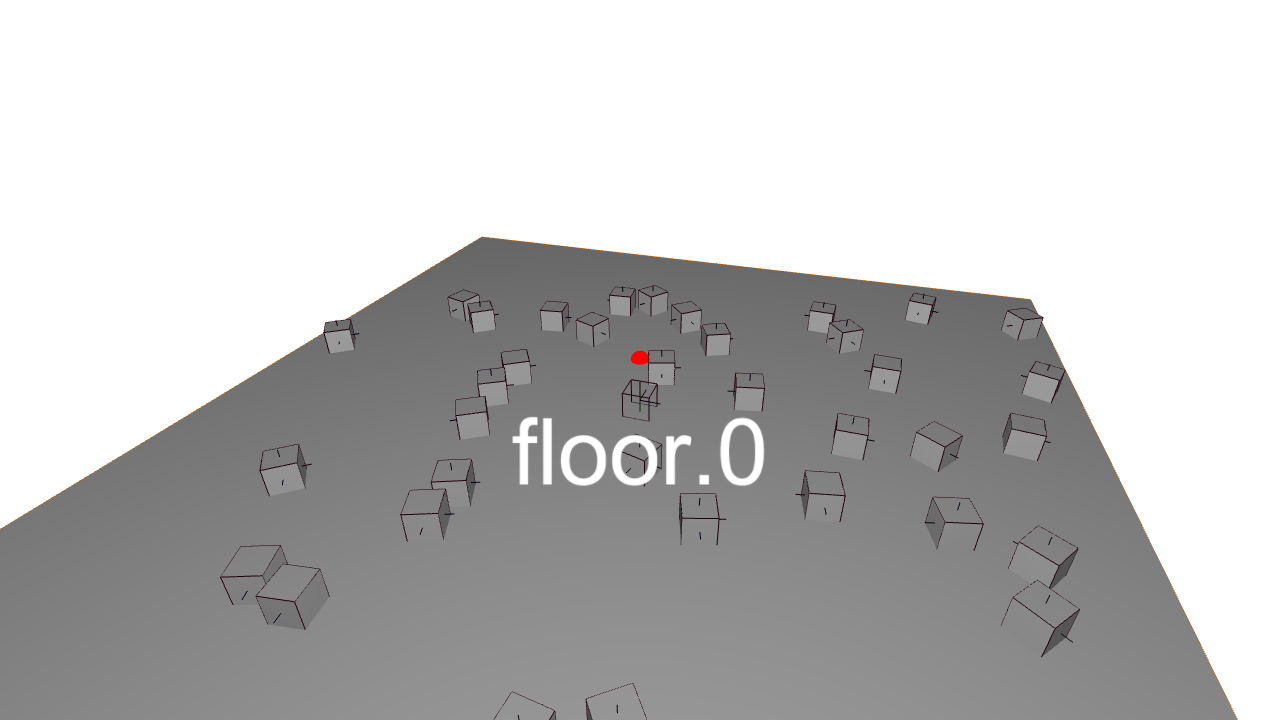
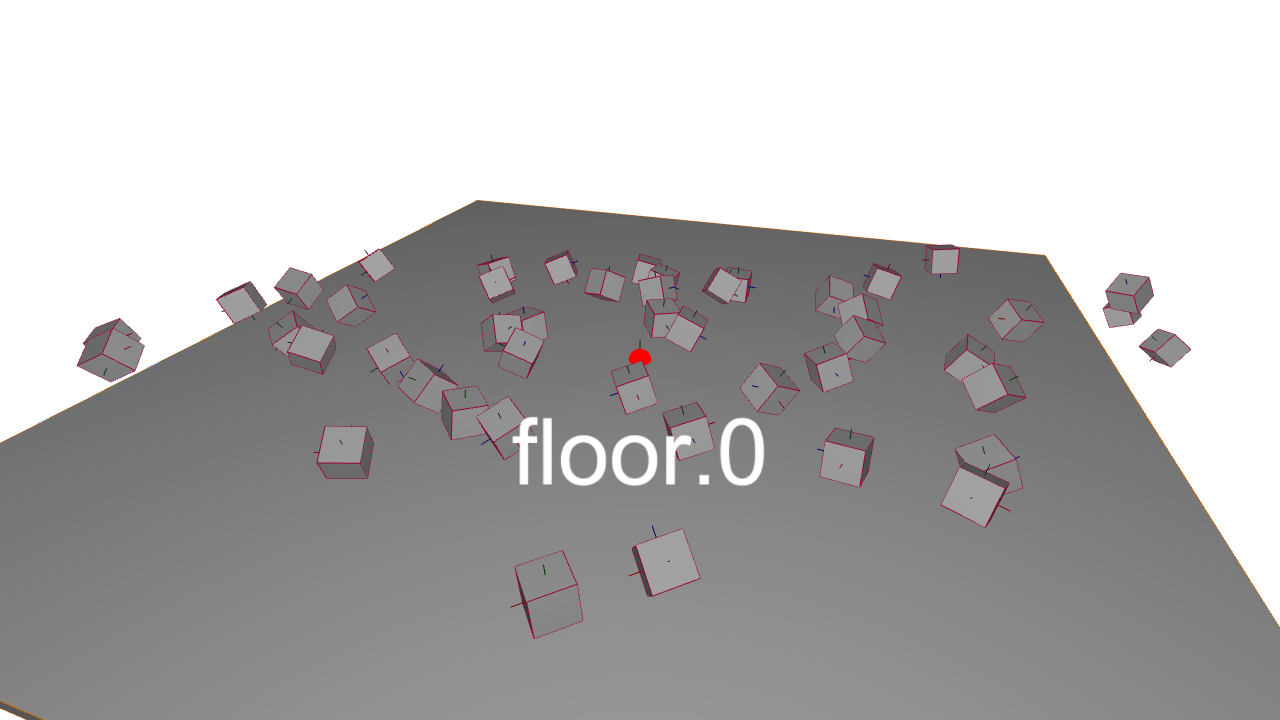
rapier

diff --git a/src/ops/extensions/Ops.Extension.Rapier3d/Ops.Extension.Rapier3d.CharacterController/Ops.Extension.Rapier3d.CharacterController.js b/src/ops/extensions/Ops.Extension.Rapier3d/Ops.Extension.Rapier3d.CharacterController/Ops.Extension.Rapier3d.CharacterController.js
@@ -5,14 +5,14 @@ const
     reset = op.inTriggerButton("Reset"),
     inHeight = op.inFloat("Height", 1),
     inWidth = op.inFloat("Width", 0.2),
-
     inVecX = op.inFloat("Vector X"),
-    inVecY = op.inFloat("Vector Y"),
+    inVecY = op.inFloat("Vector Y", -0.05),
     inVecZ = op.inFloat("Vector Z"),
     next = op.outTrigger("Next"),
     outX = op.outNumber("X"),
     outY = op.outNumber("Y"),
-    outZ = op.outNumber("Z");
+    outZ = op.outNumber("Z"),
+    outCollider = op.outArray("Collider");
 
 let characterController = null;
 let world = null;
@@ -21,6 +21,8 @@ let collider = null;
 let needsSetup = true;
 let pos = null;
 let movement = null;
+
+op.onDelete = remove;
 
 inWidth.onChange =
     inHeight.onChange =
@@ -45,13 +47,15 @@ exec.onTriggered = () =>
 
     if (needsSetup)
     {
-        let colliderDesc = RAPIER.ColliderDesc.capsule(inHeight.get(), inWidth.get());
+        const colliderDesc = RAPIER.ColliderDesc.capsule(inHeight.get(), inWidth.get());
         // const rigidBodyDesc = RAPIER.RigidBodyDesc.kinematicVelocityBased().setTranslation(-1.5,1.32,0);
         const rigidBodyDesc = RAPIER.RigidBodyDesc.kinematicPositionBased().setTranslation(-1.5, 2.32, 0);
         rigidBody = world.createRigidBody(rigidBodyDesc);
 
+        colliderDesc.setActiveCollisionTypes(RAPIER.ActiveCollisionTypes.ALL);
         colliderDesc.setFriction(0.1);
         collider = world.createCollider(colliderDesc, rigidBody);
+        outCollider.setRef([collider]);
 
         characterController = world.createCharacterController(0.01);
         characterController.setCharacterMass(1);
@@ -87,8 +91,8 @@ exec.onTriggered = () =>
     movement.y += inVecY.get();
     movement.z += inVecZ.get();
 
-    characterController.computeColliderMovement(collider, movement);
-
+    characterController.computeColliderMovement(collider, movement, RAPIER.QueryFilterFlags.EXCLUDE_SENSORS);
+    // RAPIER.QueryFilterFlags.EXCLUDE_SENSORS
     // for (let i = 0; i < characterController.numComputedCollisions(); i++) {
     // let collision = characterController.computedCollision(i);
     // Do something with that collision information.
@@ -122,11 +126,10 @@ exec.onTriggered = () =>
 
 function remove()
 {
-    if (world && rigidBody)world.removeRigidBody(rigidBody);
-    if (world && characterController)world.removeCharacterController(characterController);
+    if (world && rigidBody) world.removeRigidBody(rigidBody);
+    if (world && characterController) world.removeCharacterController(characterController);
+    if (world && collider)world.removeCollider(collider);
     characterController = null;
 
     rigidBody = null;
 }
-
-//

diff --git a/src/ops/extensions/Ops.Extension.Rapier3d/Ops.Extension.Rapier3d.CheckCollisionPairsEvents/Ops.Extension.Rapier3d.CheckCollisionPairsEvents.js b/src/ops/extensions/Ops.Extension.Rapier3d/Ops.Extension.Rapier3d.CheckCollisionPairsEvents/Ops.Extension.Rapier3d.CheckCollisionPairsEvents.js
@@ -12,63 +12,41 @@ exec.onTriggered = () =>
 {
     const arr1 = inColl1.get();
     const arr2 = inColl2.get();
-    const world = op.patch.frameStore.rapierWorld;
+    const world = op.patch.frameStore.rapier.world;
     const r1 = [];
     const r2 = [];
 
-    if (!arr1 || !arr2 || !world)
-        return outHasColl.set(false);
+    if (!arr1 || !arr2 || !world) return outHasColl.set(false);
 
-    outHasColl.set(false);
-    const events = op.patch.frameStore.rapierCollisionEvents;
+    let hasColl = false;
+    const events = op.patch.frameStore.rapier.collisionEvents;
 
-    for (let i = 0; i < arr1.length; i++)
-        r1[i] = 0;
-
-    for (let j = 0; j < arr2.length; j++)
-        r2[j] = 0;
+    for (let i = 0; i < arr1.length; i++) r1[i] = 0;
+    for (let j = 0; j < arr2.length; j++) r2[j] = 0;
 
     for (let i = 0; i < arr1.length; i++)
     {
-        // console.log("arr1[i].handle",arr1[i].handle);
         for (let j = 0; j < arr2.length; j++)
         {
             if (arr1[i] != arr2[j])
-
-                for (let e in events)//= 0; e < events.length; e++)
+            {
+                for (let e in events)
                 {
-                    if ((
-                        arr1[i].handle == events[e].handle1 &&
-                    arr2[j].handle == events[e].handle2
-
-                    )
-                || (
-                    arr2[j].handle == events[e].handle1 &&
-                    arr1[i].handle == events[e].handle2)
+                    if (
+                        (arr1[i].handle == events[e].handle1 && arr2[j].handle == events[e].handle2) ||
+                        (arr2[j].handle == events[e].handle1 && arr1[i].handle == events[e].handle2)
                     )
                     {
-                        outHasColl.set(true);
+                        hasColl = true;
                         r1[i] = 1;
                         r2[j] = 1;
                     }
                 }
+            }
         }
     }
 
-    // for (let i = 0; i < arr1.length; i++)
-    // {
-    //     for (let j = 0; j < arr2.length; j++)
-    //     {
-    //         if (arr1[i] == arr2[j]) continue;
-
-    //         world.contactPair(arr1[i], arr2[j], (manifold, flipped) =>
-    //         {
-    //             outHasColl.set(true);
-    //             r1[i] = 1;
-    //             r2[j] = 1;
-    //         });
-    //     }
-    // }
+    outHasColl.set(hasColl);
 
     outColl1.setRef(r1);
     outColl2.setRef(r2);

diff --git a/src/ops/extensions/Ops.Extension.Rapier3d/Ops.Extension.Rapier3d.Body/Ops.Extension.Rapier3d.Body.js b/src/ops/extensions/Ops.Extension.Rapier3d/Ops.Extension.Rapier3d.Body/Ops.Extension.Rapier3d.Body.js
@@ -22,12 +22,14 @@ const
 
     inPositions = op.inArray("Positions"),
     inEvents = op.inBool("Events", true),
+    inActive = op.inBool("Active", true),
     next = op.outTrigger("Next"),
     outSleeping = op.outBoolNum("Sleeping"),
     outPos = op.outArray("Result Positions", [], 3),
     outSize = op.outArray("Result Size", [], 3),
     outRot = op.outArray("Result Rotations", [], 4),
-    outCollider = op.outArray("Collider");
+    outCollider = op.outArray("Collider"),
+    outBodies = op.outArray("Bodies");
 
 let needsSetup, lastWorld, oldShape;
 let rigidBodies = [];
@@ -65,12 +67,23 @@ inTranslX.onChange =
         {
             setPosition = true;
         }
+        else
+        {
+            needsSetup = true;
+        }
     };
+
+inActive.onChange = () =>
+{
+    if (!inActive.get()) removeBodies();
+    needsSetup = true;
+};
 
 exec.onTriggered = () =>
 {
     const world = op.patch.frameStore.rapier.world;
     if (!world) return;
+    if (!inActive.get()) return;
 
     // if (!eventQueue)
     {
@@ -262,6 +275,7 @@ function setup(world)
 
     // console.log("colliders", colliders);
     outCollider.setRef(colliders);
+    outBodies.setRef(rigidBodies);
 
     needsSetup = false;
     updateUi();

diff --git a/src/ops/extensions/Ops.Extension.Rapier3d/Ops.Extension.Rapier3d.World_v2/Ops.Extension.Rapier3d.World_v2.js b/src/ops/extensions/Ops.Extension.Rapier3d/Ops.Extension.Rapier3d.World_v2/Ops.Extension.Rapier3d.World_v2.js
@@ -1,6 +1,7 @@
 const
     exec = op.inTrigger("Execute"),
     inReset = op.inTriggerButton("Reset"),
+    inDebug = op.inBool("Debug", true),
     next = op.outTrigger("Next"),
     outDebugPoints = op.outArray("Debug Splines"),
     outDebugColors = op.outArray("Debug Colors"),
@@ -51,9 +52,13 @@ exec.onTriggered = () =>
     const ray = new RAPIER.Ray(new RAPIER.Vector3(-0.5, 0, 0), new RAPIER.Vector3(1, 0, 0));
     const result = world.castRay(ray);
 
-    const dbg = world.debugRender();
-    outDebugPoints.set(dbg.vertices);
-    outDebugColors.set(dbg.colors);
+    if (inDebug.get() && outDebugPoints.isLinked())
+    {
+        const dbg = world.debugRender();
+        outDebugPoints.set(dbg.vertices);
+        outDebugColors.set(dbg.colors);
+    }
+
     eventQueue.drainCollisionEvents((handle1, handle2, started) =>
     {
         const id = Math.min(handle1, handle2) + "_" + Math.max(handle2, handle1);

diff --git a/src/ops/extensions/Ops.Extension.Rapier3d/Ops.Extension.Rapier3d.Emitter/Ops.Extension.Rapier3d.Emitter.js b/src/ops/extensions/Ops.Extension.Rapier3d/Ops.Extension.Rapier3d.Emitter/Ops.Extension.Rapier3d.Emitter.js
@@ -21,6 +21,7 @@ const
     inLifetime = op.inFloat("Lifetime", 0),
 
     inEmit = op.inTriggerButton("Emit"),
+    inClear = op.inTriggerButton("Remove"),
 
     next = op.outTrigger("Next"),
     outSleeping = op.outBoolNum("Sleeping"),
@@ -52,9 +53,9 @@ inMass.onChange =
     inCollRadius.onChange = () =>
     {
         op.setUiAttrib({ "extendTitle": inName.get() });
-        // needsSetup = true;
     };
 
+inClear.onTriggered = removeBodies;
 inEmit.onTriggered = emitOne;
 
 inTranslX.onChange =
@@ -69,7 +70,9 @@ inTranslX.onChange =
 
 exec.onTriggered = () =>
 {
+    if (!exec.isLinked()) return;
     const world = op.patch.frameStore.rapierWorld;
+
     if (!world) return;
 
     // if (!eventQueue)
@@ -167,6 +170,8 @@ function updateUi()
 
 function emitOne()
 {
+    if (!exec.isLinked()) return;
+
     const world = lastWorld;
     if (!world) return;
 

diff --git a/src/ops/base/Ops.Gl.Meshes.SimpleWireframe/Ops.Gl.Meshes.SimpleWireframe.js b/src/ops/base/Ops.Gl.Meshes.SimpleWireframe/Ops.Gl.Meshes.SimpleWireframe.js
@@ -1,7 +1,10 @@
 const
     render = op.inTrigger("Render"),
     inGeom = op.inObject("Geometry", null, "geometry"),
-    next = op.outTrigger("Next");
+    inDraw = op.inBool("Draw", true),
+    next = op.outTrigger("Next"),
+    outGeom = op.outObject("Wire Geometry", null, "geometry");
+
 const cgl = op.patch.cgl;
 
 op.toWorkPortsNeedToBeLinked(inGeom);
@@ -84,6 +87,8 @@ inGeom.onChange = function ()
     geom.setTexCoords(tc);
     geom.vertexNormals = normals;
 
+    outGeom.setRef(geom);
+
     mesh = new CGL.Mesh(cgl, geom, prim);
 };
 
@@ -94,7 +99,7 @@ function doRender()
 
     let oldPrim = shader.glPrimitive;
     shader.glPrimitive = prim;
-    if (mesh) mesh.render(shader);
+    if (inDraw.get() && mesh) mesh.render(shader);
     shader.glPrimitive = oldPrim;
     next.trigger();
 }

diff --git a/src/ops/extensions/Ops.Extension.Rapier3d/Ops.Extension.Rapier3d.CheckCollision/Ops.Extension.Rapier3d.CheckCollision.js b/src/ops/extensions/Ops.Extension.Rapier3d/Ops.Extension.Rapier3d.CheckCollision/Ops.Extension.Rapier3d.CheckCollision.js
@@ -15,21 +15,22 @@ exec.onTriggered = () =>
     if (!arr1 || !world)
         return outHasColl.set(false);
 
-    outHasColl.set(false);
+    let hasCollision = false;
     const events = op.patch.frameStore.rapier.collisionEvents;
 
     for (let i = 0; i < arr1.length; i++)
     {
         r1[i] = 0;
-        for (let e in events)//= 0; e < events.length; e++)
+        for (let e in events)
         {
             if (arr1[i].handle == events[e].handle1 || arr1[i].handle == events[e].handle2)
             {
-                outHasColl.set(true);
+                hasCollision = true;
                 r1[i] = 1;
             }
         }
     }
+    outHasColl.set(true);
 
     outColl1.setRef(r1);
 };
